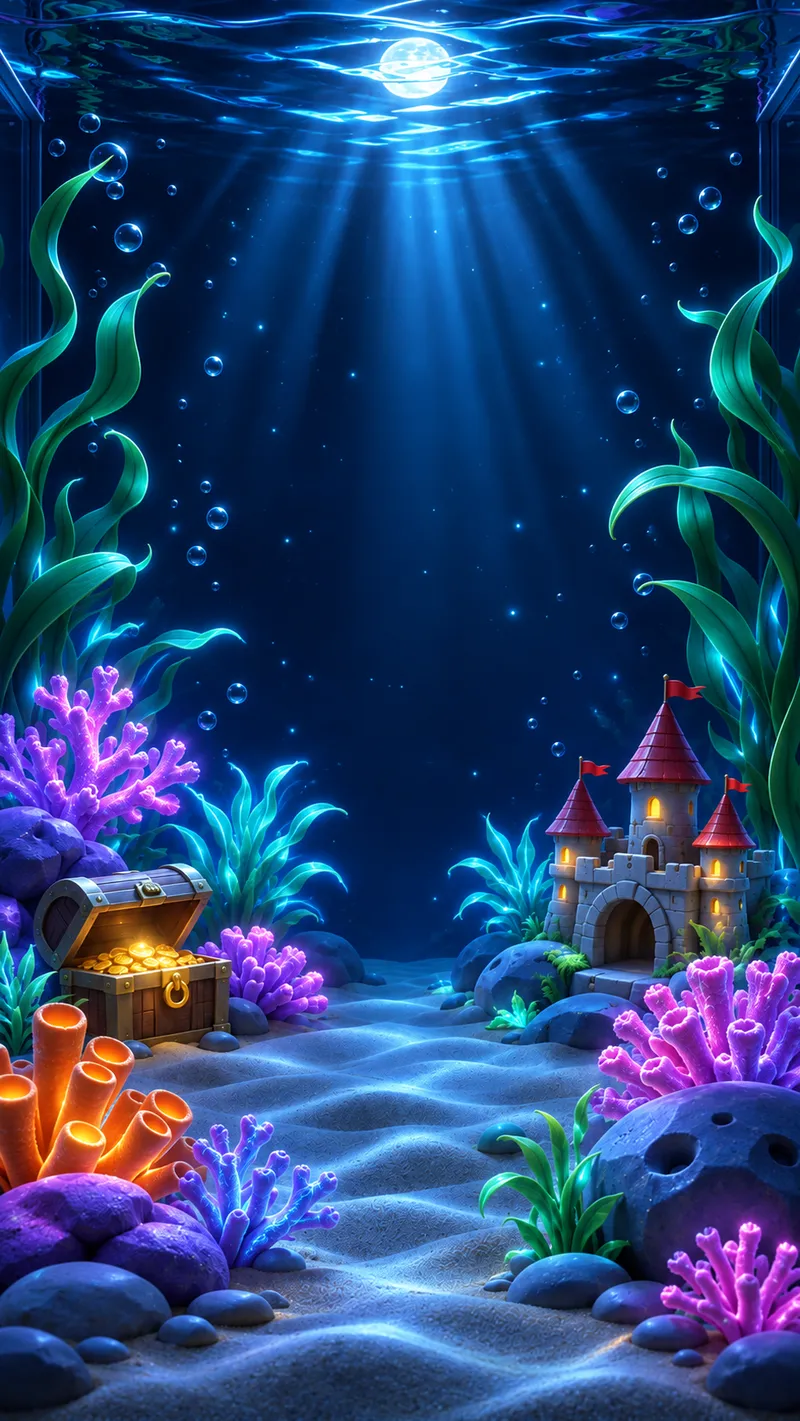
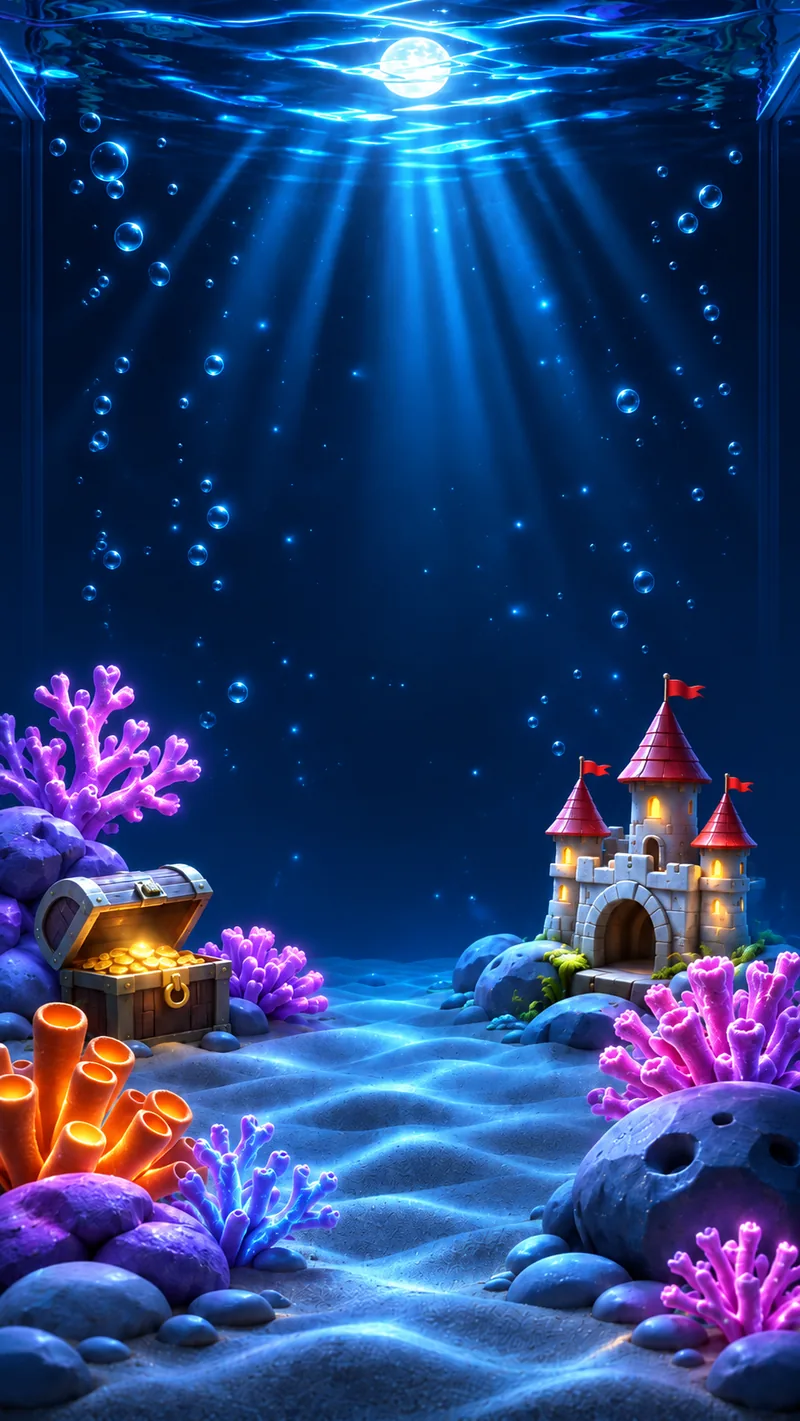
אקווריום: צמחים נפרדים שמתנדנדים לאט, רקעים חדשים בלי הצמחים
Claude-Session: https://claude.ai/code/session_017uWVXFkUc2AoqiJaQgmiVj

diff --git a/aquarium.html b/aquarium.html
@@ -19,6 +19,13 @@ body{display:flex;justify-content:center}
 .bg{position:absolute;inset:0;background-size:cover;background-position:center bottom;transition:opacity 1.6s}#bgd{background-image:url(icons/aquarium/bg_day.webp)}#bgn{background-image:url(icons/aquarium/bg_night.webp)}.gback{pointer-events:auto;background:#0008;color:#e6fbff;text-decoration:none;font-size:15px;font-weight:800;padding:11px 16px;border-radius:23px;backdrop-filter:blur(4px)}
 #bgn{opacity:0}
 #aq.night #bgn{opacity:1}
+#stg{position:absolute;left:0;top:0;width:800px;height:1421px;transform-origin:0 0;pointer-events:none}
+#stg .pl{position:absolute;transform-origin:50% 100%;animation:sw var(--d,8s) ease-in-out var(--dl,0s) infinite alternate;will-change:transform;filter:none}
+#stg .pl img{display:block;width:100%;height:100%}
+#plw{position:absolute;inset:0;transition:filter 1.6s}#aq.night #plw{filter:brightness(.55) saturate(.8) hue-rotate(8deg)}
+#stg .fg{position:absolute;left:0;top:654px;width:800px;height:767px;transition:opacity 1.6s}#fgn{opacity:0}#aq.night #fgn{opacity:1}
+@keyframes sw{from{transform:rotate(calc(var(--a,1.6deg)*-1)) skewX(calc(var(--a,1.6deg)*1.2))}to{transform:rotate(var(--a,1.6deg)) skewX(calc(var(--a,1.6deg)*-1.2))}}
+#aq.pz .pl{animation-play-state:paused}@media(prefers-reduced-motion:reduce){#stg .pl{animation:none}}
 #world{position:absolute;inset:0;transition:filter 1.6s}
 #aq.night #world{filter:brightness(.82) saturate(.92)}
 .o{position:absolute;left:0;top:0;pointer-events:none;will-change:transform}
@@ -38,6 +45,7 @@ body{display:flex;justify-content:center}
 .bb{position:absolute;pointer-events:none}
 </style></head><body><div id="aq">
 <div class="bg" id="bgd"></div><div class="bg" id="bgn"></div>
+<div id="stg" aria-hidden="true"><div id="plw"><div class="pl" style="left:26px;top:280px;width:159px;height:520px;--d:9s;--a:1.5deg;--dl:-1s"><img src="icons/aquarium/pl1.webp" alt=""></div><div class="pl" style="left:136px;top:320px;width:78px;height:470px;--d:7.5s;--a:1.9deg;--dl:-4s"><img src="icons/aquarium/pl7.webp" alt=""></div><div class="pl" style="left:173px;top:715px;width:154px;height:250px;--d:8.5s;--a:1.6deg;--dl:-2s"><img src="icons/aquarium/pl3.webp" alt=""></div><div class="pl" style="left:678px;top:450px;width:174px;height:560px;--d:10s;--a:1.4deg;--dl:-6s"><img src="icons/aquarium/pl8.webp" alt=""></div><div class="pl" style="left:575px;top:365px;width:230px;height:600px;--d:8s;--a:1.7deg;--dl:-3s"><img src="icons/aquarium/pl4.webp" alt=""></div><div class="pl" style="left:381px;top:665px;width:179px;height:300px;--d:7s;--a:2.0deg;--dl:-5s"><img src="icons/aquarium/pl6.webp" alt=""></div><div class="pl" style="left:528px;top:575px;width:75px;height:400px;--d:9.5s;--a:1.8deg;--dl:-7.5s"><img src="icons/aquarium/pl2.webp" alt=""></div></div><img class="fg" id="fgd" src="icons/aquarium/fg_day.webp" alt=""><img class="fg" id="fgn" src="icons/aquarium/fg_night.webp" alt=""></div>
 <div id="world"></div>
 <div id="ui"><a class="gback" href="games.html">‹ חזרה למשחקים</a>
 <div style="display:flex;gap:8px"><button id="sb" aria-label="סאונד"><svg id="sico" viewBox="0 0 26 26"></svg></button><button id="nb" aria-label="יום ולילה"><svg id="ico" viewBox="0 0 26 26"></svg></button></div></div>
@@ -46,7 +54,7 @@ body{display:flex;justify-content:center}
 <script>
 const A=new Proxy({},{get:(_,k)=>'icons/aquarium/'+k+'.webp'});
 const aq=document.getElementById('aq'),world=document.getElementById('world');
-let W,H;function size(){const r=aq.getBoundingClientRect();W=r.width;H=r.height}size();addEventListener('resize',size);
+let W,H;function size(){const r=aq.getBoundingClientRect();W=r.width;H=r.height;const k=Math.max(W/800,H/1421),sg=document.getElementById('stg');sg.style.transform='translate('+((W-800*k)/2)+'px,'+(H-1421*k)+'px) scale('+k+')'}size();addEventListener('resize',size);
 const rnd=(a,b)=>a+Math.random()*(b-a),clamp=(v,a,b)=>Math.max(a,Math.min(b,v));
 const sandY=()=>H*.70;
 function mkObj(src,w,cls){const d=document.createElement('div');d.className='o '+(cls||'');d.style.width=w+'px';const i=new Image();i.src=src;d.appendChild(i);world.appendChild(d);return d}
@@ -83,8 +91,8 @@ function ico(){document.getElementById('ico').innerHTML=night?'<circle cx="13" c
 let spawnT=6;['clown','gold','blue','angel','yellow'].sort(()=>Math.random()-.5).slice(0,4).forEach(k=>addFish(k,{inside:true}));
 let last=performance.now(),tt=0;
 let running=true,onscreen=true;function resume(){if(!running&&!document.hidden&&onscreen){running=true;last=performance.now();requestAnimationFrame(loop)}}
-document.addEventListener('visibilitychange',()=>{if(document.hidden)running=false;else resume()});
-new IntersectionObserver(es=>{onscreen=es[0].isIntersecting;if(!onscreen){running=false;aud.pause();sndOn=false;sico()}else{resume();if(wantSound)playSnd()}}).observe(aq);
+document.addEventListener('visibilitychange',()=>{aq.classList.toggle('pz',document.hidden);if(document.hidden)running=false;else resume()});
+new IntersectionObserver(es=>{onscreen=es[0].isIntersecting;aq.classList.toggle('pz',!onscreen);if(!onscreen){running=false;aud.pause();sndOn=false;sico()}else{resume();if(wantSound)playSnd()}}).observe(aq);
 function loop(now){if(!running)return;const dt=Math.min(.05,(now-last)/1000);last=now;tt+=dt;
  // flakes
  flakes.forEach(f=>{f.age+=dt;f.y+=f.vy*dt;f.x+=Math.sin(tt*.9+f.ph)*5*dt;f.r+=16*dt;const s=1;const bottom=sandY()+ (1-f.z)*H*.08;if(f.y>bottom){f.y=bottom;f.vy=0;f.rest=(f.rest||0)+dt}

diff --git a/sw.js b/sw.js
@@ -1,5 +1,5 @@
 // Service worker מינימלי: שומר את קבצי המעטפת לפתיחה מהירה. נתונים תמיד מהרשת.
-const CACHE = 'habayit-p168';
+const CACHE = 'habayit-p169';
 const SHELL = ['./js/companion.js','./js/dog.js','./js/spider.js','./','./index.html','./login.html','./signup.html','./google-setup.html','./privacy.html','./terms.html','./js/family.js','./css/style.css','./js/splash.js','./splash.jpg','./splash-en.jpg','./splash-family.jpg','./splash.jpg','./js/config.js','./js/supabase.js','./js/common.js','./js/icons.js','./js/generate.js','./js/points.js','./tasks.html','./task.html','./admin.html','./report.html','./history.html','./chat.html','./ai.html','./lessons.html','./chef-splash.jpg','./teacher-splash.jpg','./calendar.html','./requests.html','./meds.html','./info.html','./feedback.html','./guide.html','./status.html','./bonus.html','./js/gamesplash.js','./js/bonuspopup.js','./bonus-splash.jpg','./bonus-splash-en.jpg','./fridge.html','./shop.html','./outing.html','./js/outings.js', './important.html', './js/important.js', './js/push.js','./js/bonus.js','./game.html','./games.html','./checkers.html','./battleship.html','./poker.html','./backgammon.html','./blackjack.html','./stratego.html','./tetris.html','./aquarium.html','./conflicts.html','./tetris-bg.jpg','./tetris-splash.jpg','./js/strategopage.js','./stratego-bg.jpg','./stratego-water.jpg','./stratego-splash.jpg','./js/bjpage.js','./js/bgpage.js','./js/pokerpage.js','./js/bspage.js','./js/checkerspage.js','./js/guest.js','./js/checkers-rules.js','./js/gamepage.js','./js/game.js','./game-bg.jpg','./js/events.js','./js/i18n.js','./manifest.webmanifest','./logo.png','./login-bg.jpg','./logo-text.png'];
 // כל קובץ נשמר בנפרד וללא כפילויות: קובץ חסר או כפול לא מפיל את ההתקנה של ה-Service Worker
 self.addEventListener('install', e => { e.waitUntil(caches.open(CACHE).then(c => Promise.allSettled([...new Set(SHELL)].map(u => c.add(u))))); self.skipWaiting(); });
